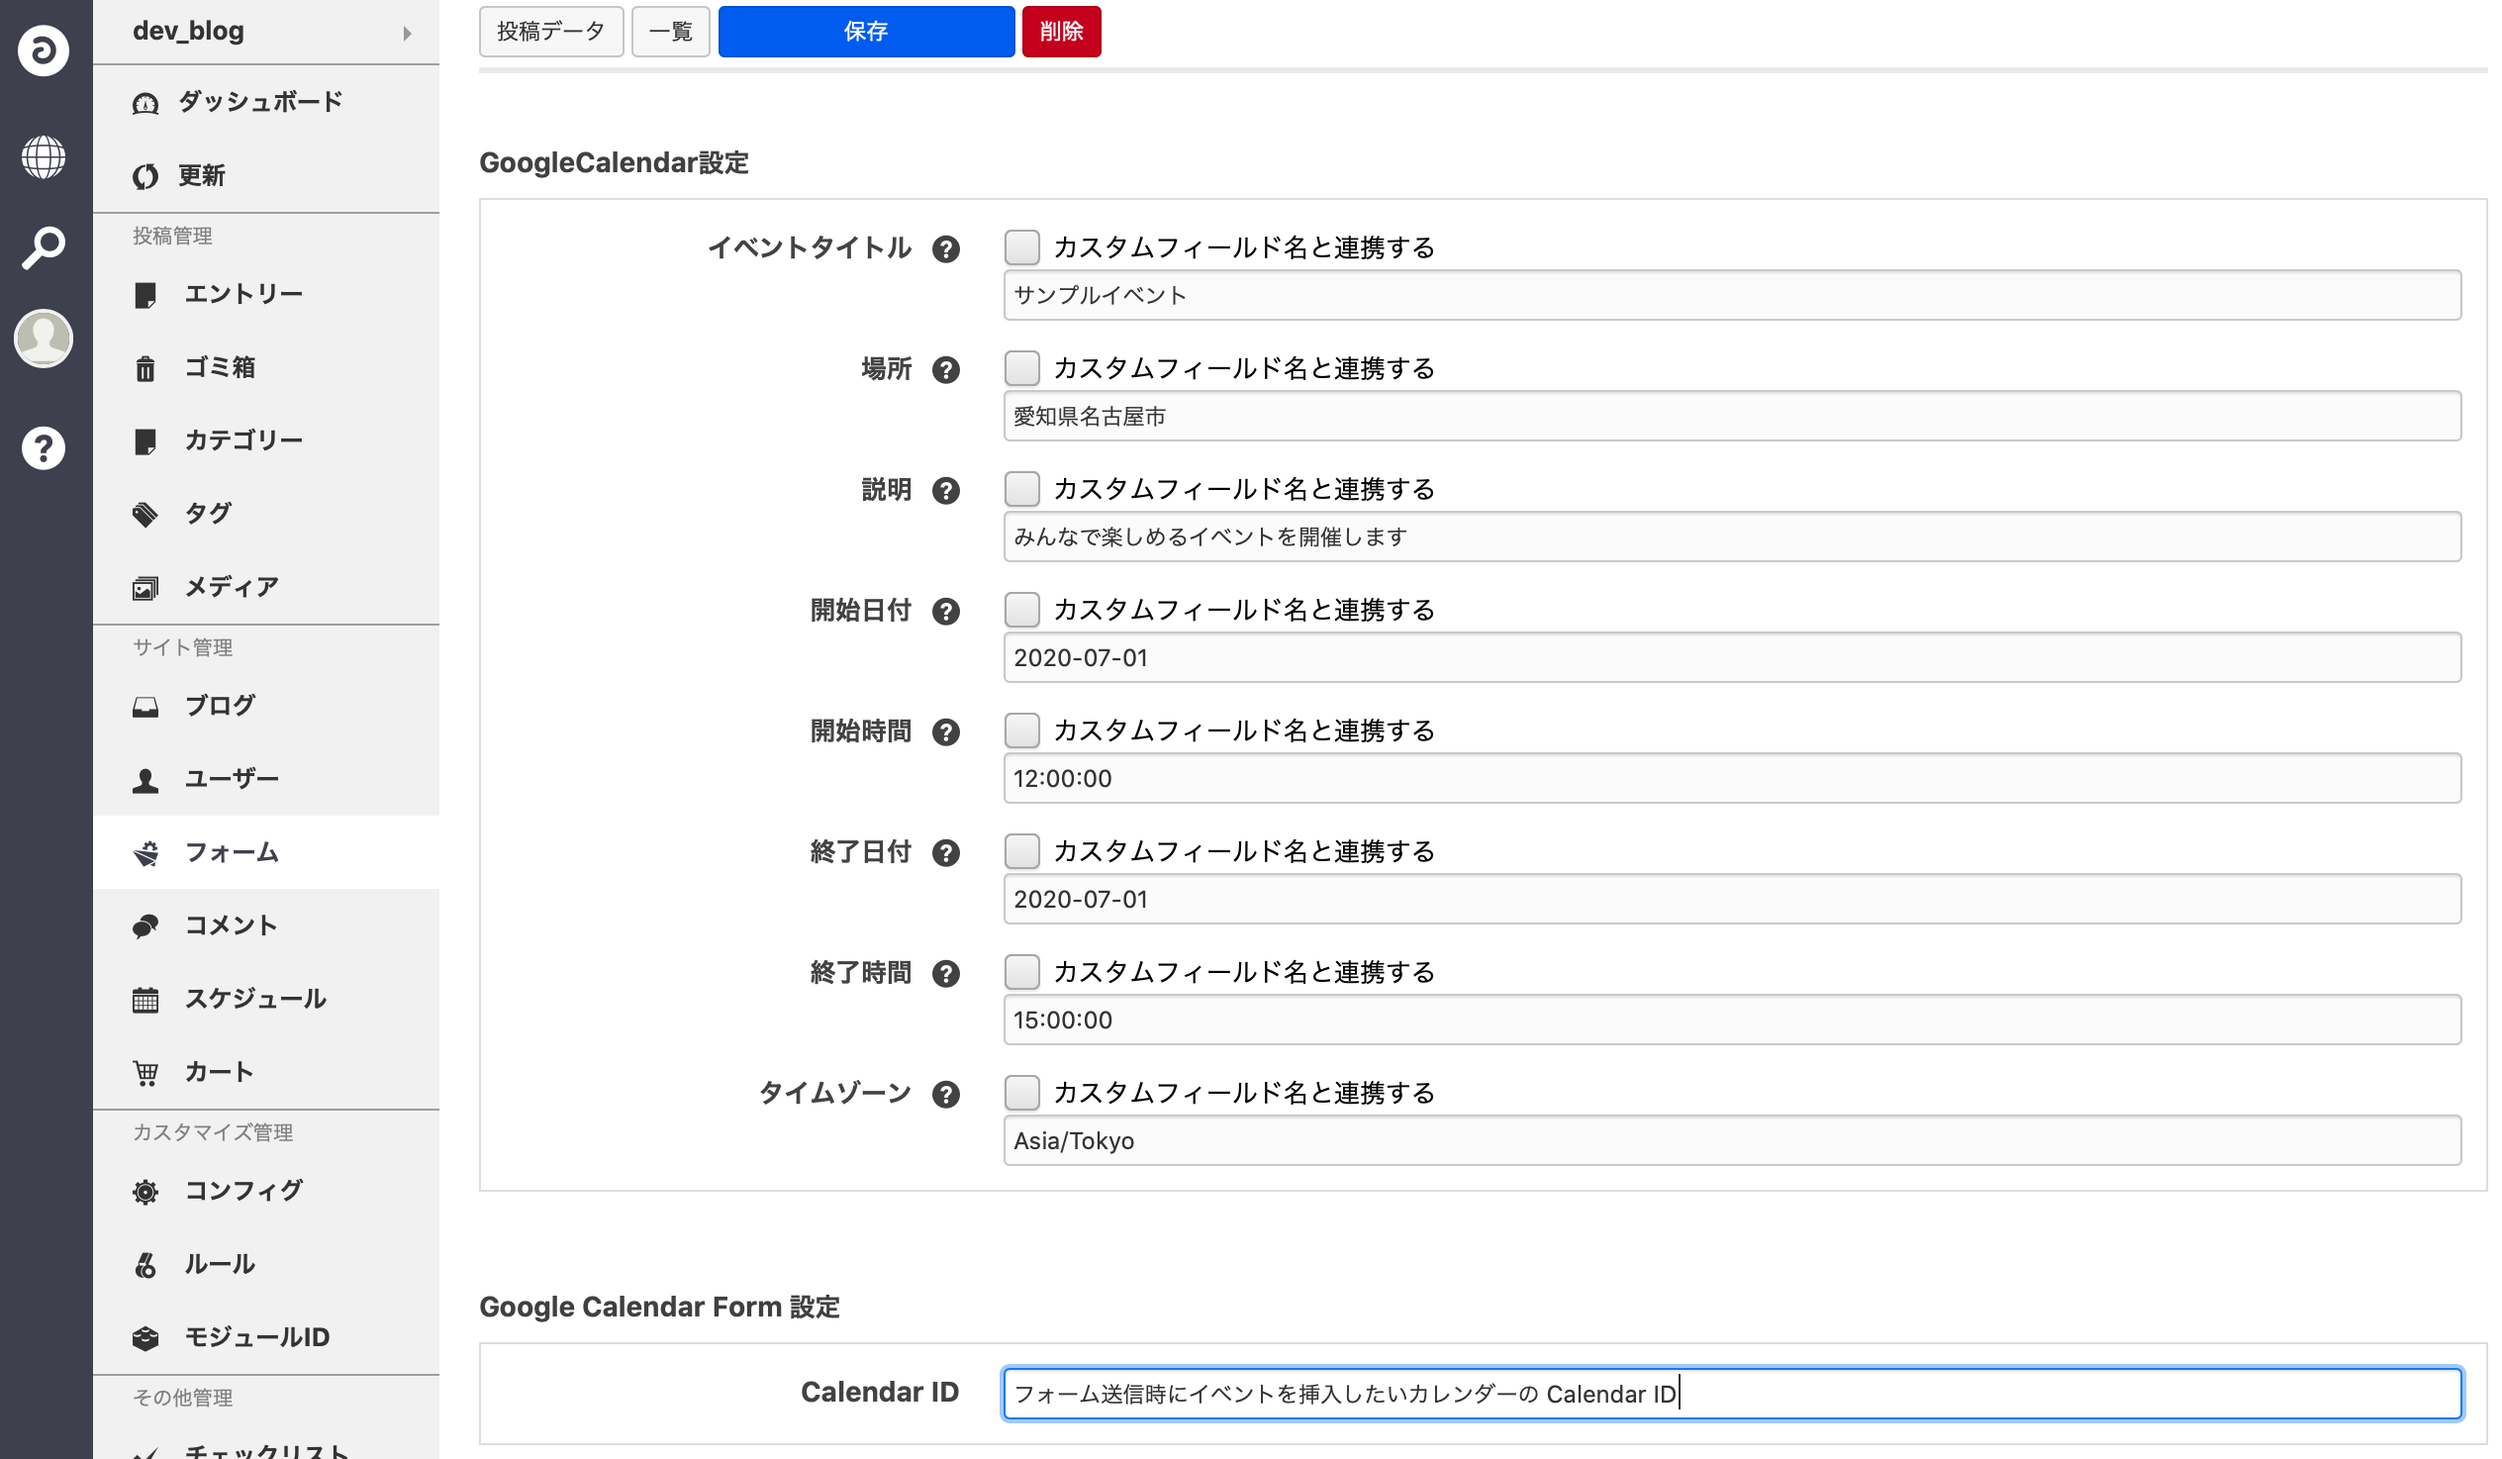
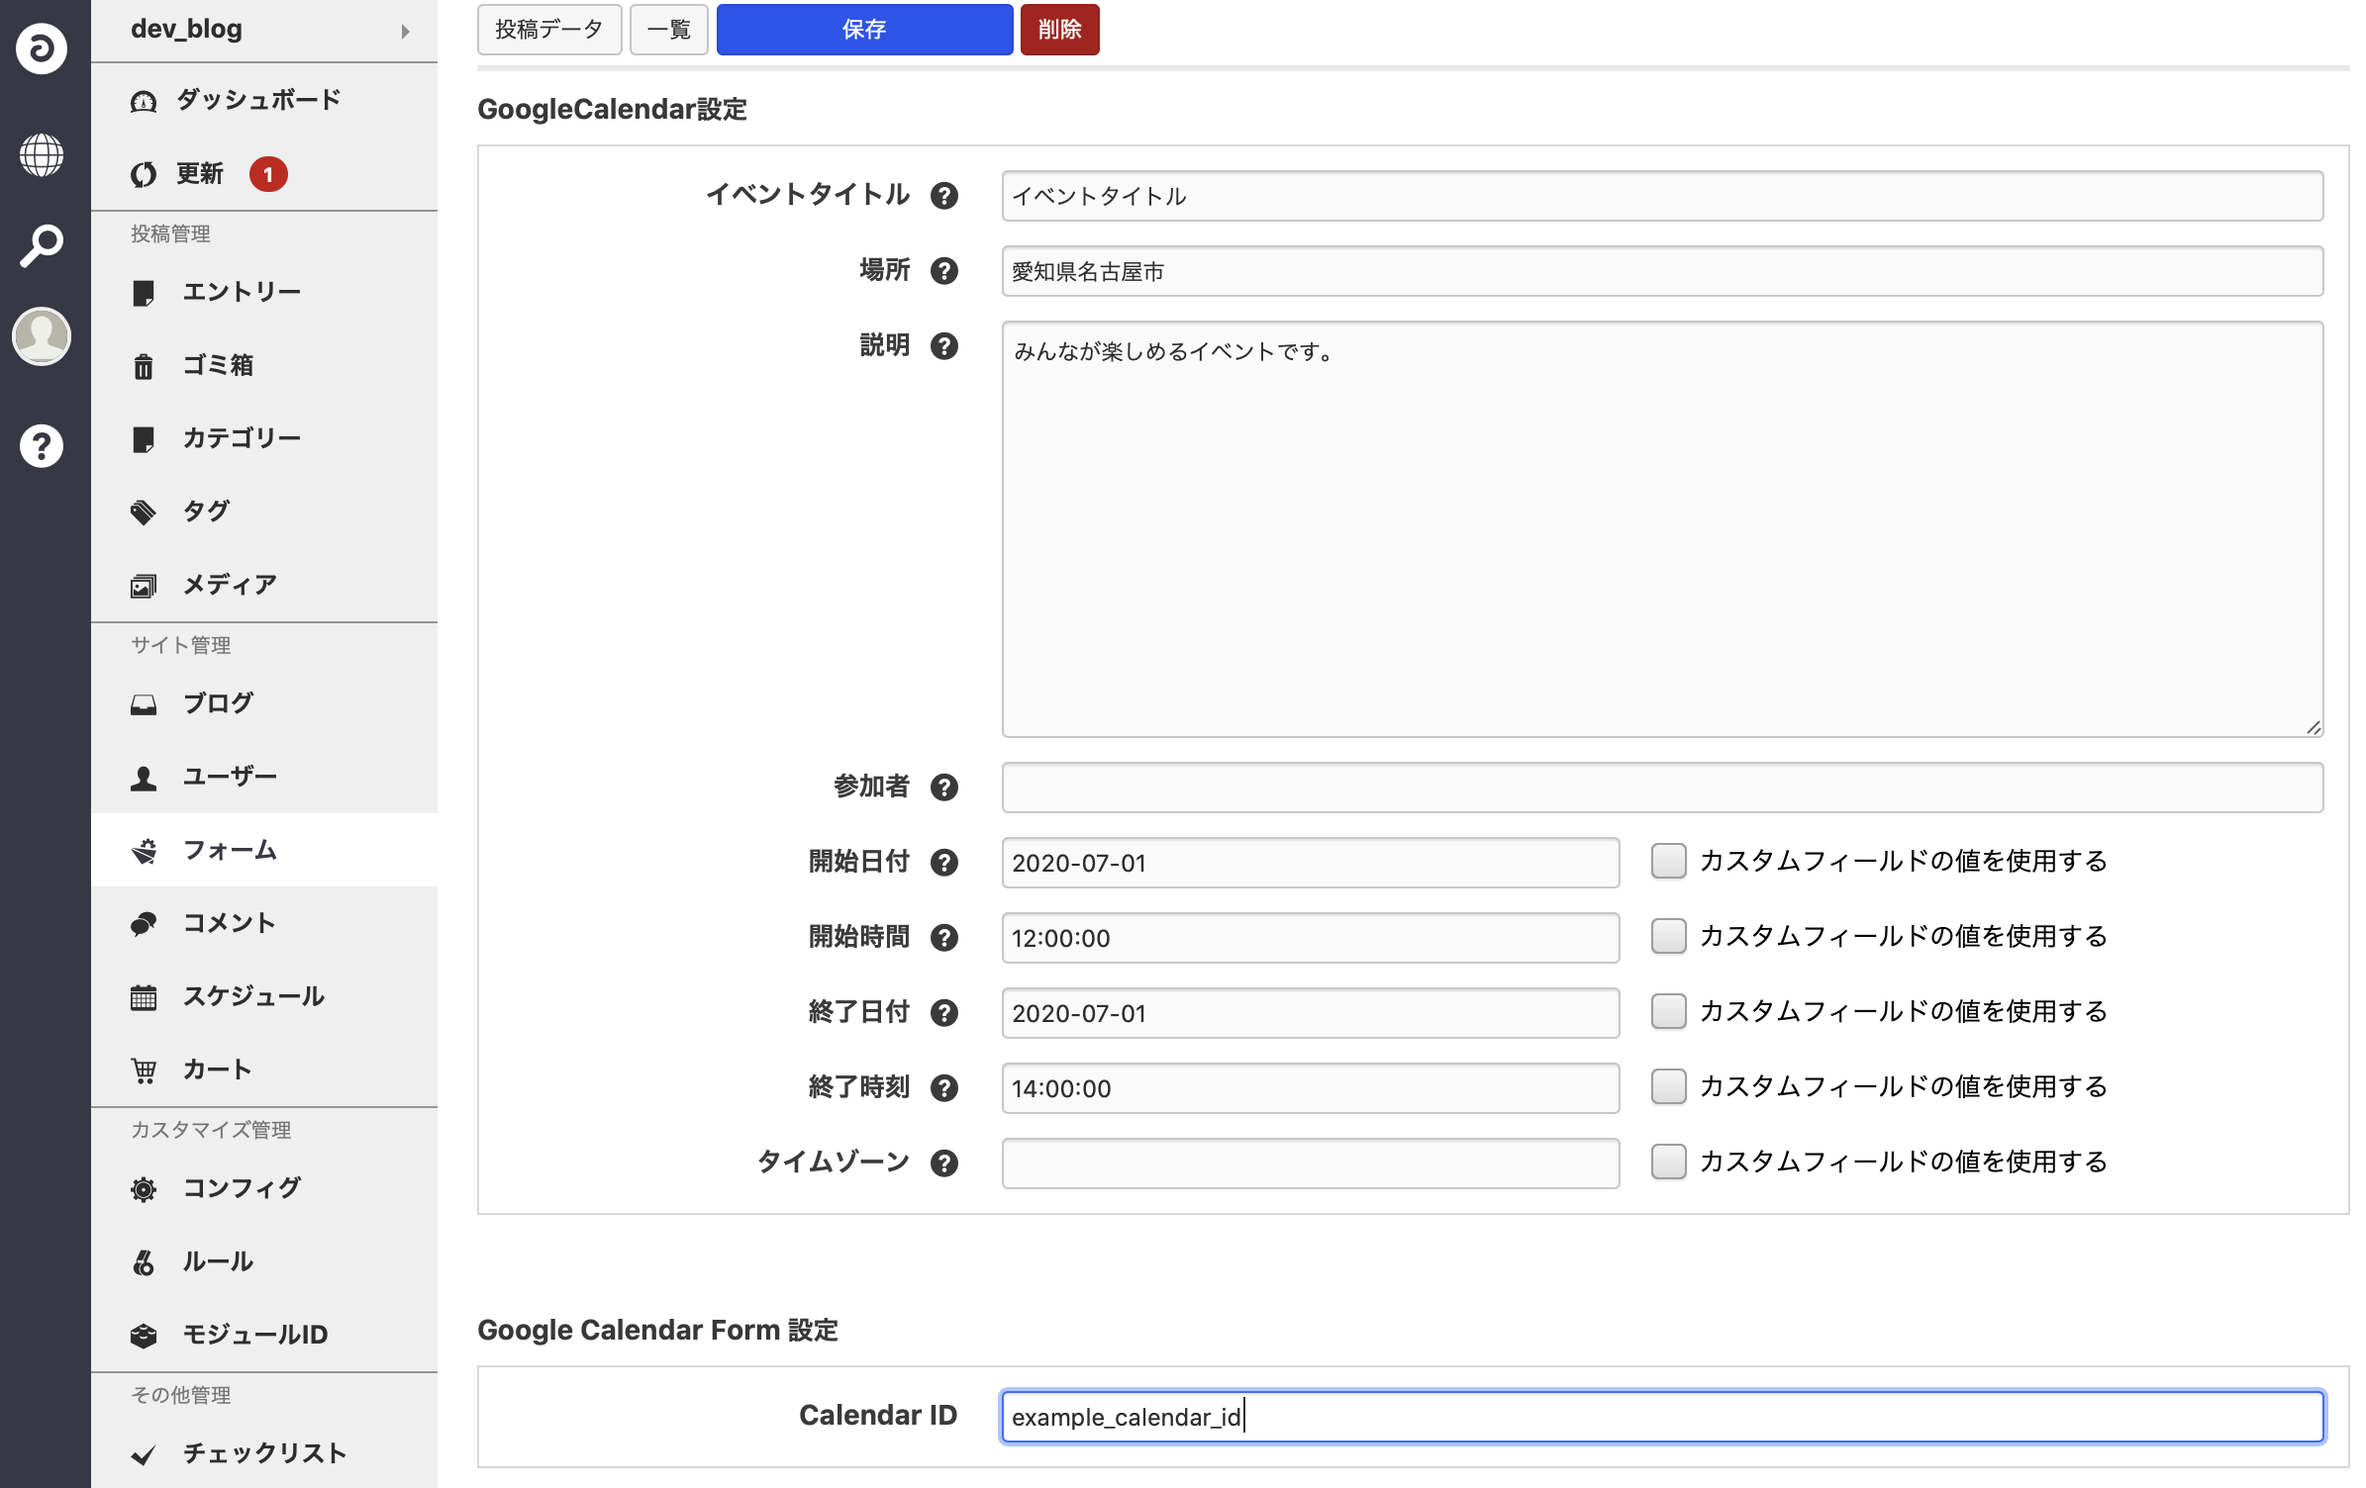
update : readme

diff --git a/README.md b/README.md
@@ -31,11 +31,27 @@ extension/plugins に[Google Calendar for a-blog cms](https://github.com/applepl
 <img src="./images/acms_setting_oauth.png" />
 
 ## 設定
-次に、Google Calendar と連携するフォームの設定を行います。管理画面 > フォーム より、連携したいフォームの設定画面に移動します。「Google Calendar 設定」、「Google Calendar Form 設定」という項目があるので、ここにフォームが送信された時にカレンダーに登録したい値を設定します。例えば入力する値は次の画像のようになります。この設定では、フォームが送信された際に、設定した Calendar ID のカレンダーに、イベント名「サンプルイベント」、場所「愛知県名古屋市」、説明「みんなで楽しめるイベントを開催します」、開始日時「2020/7/1 12:00」、終了日時「2020/7/1 15:00」、タイムゾーン「Asia/Tokyo」のイベントが挿入されます。
+### 基本的な設定
+次に、Google Calendar と連携するフォームの設定を行います。管理画面 > フォーム より、連携したいフォームの設定画面に移動します。「Google Calendar 設定」、「Google Calendar Form 設定」という項目があるので、ここにフォームが送信された時にカレンダーに登録したい値を設定します。例えば入力する値は次のように設定します。
 <img src="./images/setting_example1.png" />
+この設定では、フォームが送信された際に、設定した Calendar ID (example_calendar_id) のカレンダーに、イベント名「サンプルイベント」、場所「愛知県名古屋市」、説明「みんなが楽しめるイベントです。」、開始日時「2020/7/1 12:00」、終了日時「2020/7/1 14:00」、タイムゾーン「Asia/Tokyo」であるイベントが追加されます。
 
-先ほどの例では、カレンダーに登録される値は常に決められた値であって、フォームの内容に応じたものではありませんでした。カレンダーに挿入されるイベントを送信されたフォームの内容と関連づけるには、次のように設定します。先ほどの例と異なり、開始日付、開始時間及び終了日付、終了時間に設定されている値は、それぞれ連携するフォームに存在するカスタムフィールド名です。この場合、カレンダーには指定されたカスタムフィールド名のフィールドのフォーム送信時の値が挿入されます。このように設定する値をカスタムフィールド名にすることで、フォームの内容を反映したイベントをカレンダーに挿入できます。
+### 発展的な設定
+カレンダーに登録される値をフォームの内容に応じた値にすることができます。例えば、次のように設定します。
 <img src="./images/setting_example2.png" />
+この例では、イベント名「{description}」、開始日付「{postal-code}{address1}{address2}」、説明「{inquiry}」のイベントが追加されます。ここで、{}で囲まれた部分には{}内の名前に対応するカスタムフィールド名の値が挿入されます。また、時間設定にもカスタムフィールドの値を用いることができます。その際は、右の「カスタムフィールドの値を使用する」チェックボックスにチェックしてください。
 
-### 注意
-Google Calendar にイベントを登録するには、開始日付、開始時間、終了日付、終了時間、タイムゾーンの設定が必須です。これらの値が設定されていない場合や、値が間違っている場合(yy-mm-ddの形式になっていないなど)はイベントが登録されないことにご注意ください。
+### 日付・時間の設定
+「開始日付」及び「タイムゾーン」は必須の入力項目となります。それ以外の項目については任意ですが、記述方法によって追加されるイベントの終了時刻が異なります。
+- 「開始日付」及び「開始時間」が入力されており、「終了日付」、「終了時間」が入力されていない場合
+    - カレンダーに登録される終了日時は、「開始日付」、「開始時間」と同じになります
+- 「開始日付」が入力されており、「開始時間」、「終了日付」、「終了時間」が入力されていない場合
+    - カレンダーに登録されるイベントは「開始日付」の終日イベントになります
+- 「開始日付」及び「終了日付」が入力されており、「開始時間」、「終了時間」が入力されていない場合
+    - カレンダーに登録されるイベントは「開始日付」から「終了日付」までの終日イベントになります
+    - この際、終了日付も含むイベントを登録したい場合は、終日日付+1日とすることに注意してください
+- 「終了日付」及び「終了時間」は、「+yy-mm-dd」及び「+h:m:s」とすることで、それぞれ「開始日付」、「開始時刻」に対しての経過時間を設定できます
+
+### 参加者の設定
+参加者欄にはメールアドレスを指定します。イベントが追加された時、ここに記入されたメールアドレスがイベント参加者としてカレンダーに登録されます。この際、Google Calendar の機能で参加者にメールによる通知が行われます。また、参加者として追加されたメールアドレスが Gmail の場合、そのアカウントのカレンダーにイベントが自動的に追加されます。
+- 参加者は複数追加することができます。その際は「,」でメールアドレスを区切ってください(例：{email1}, {email2})
